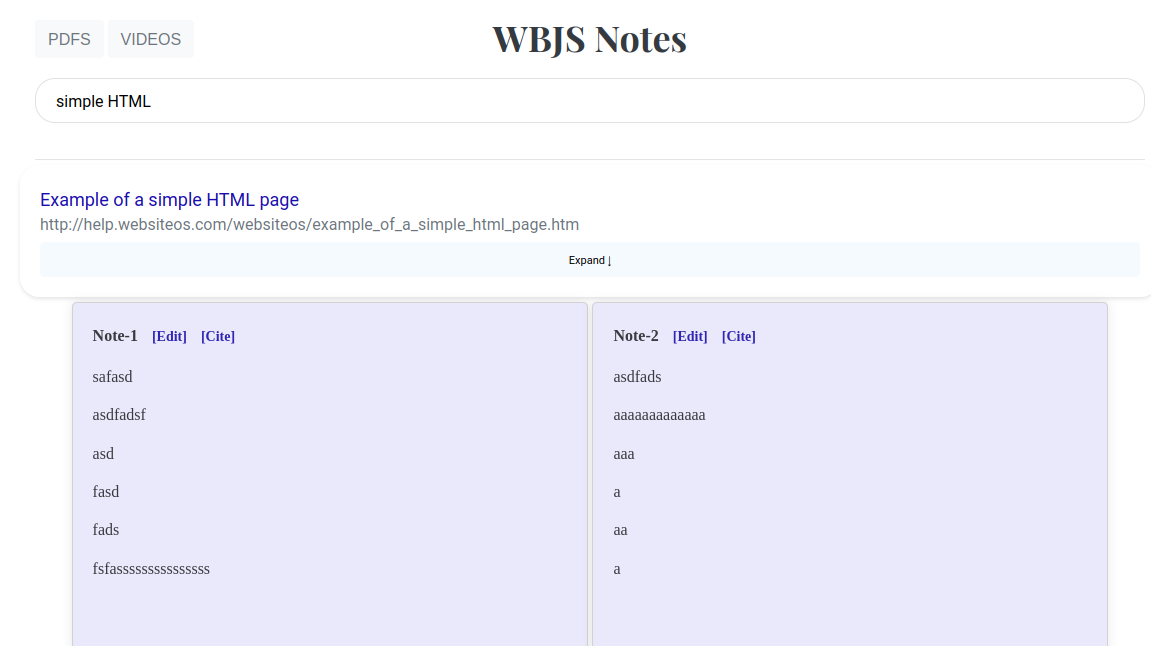
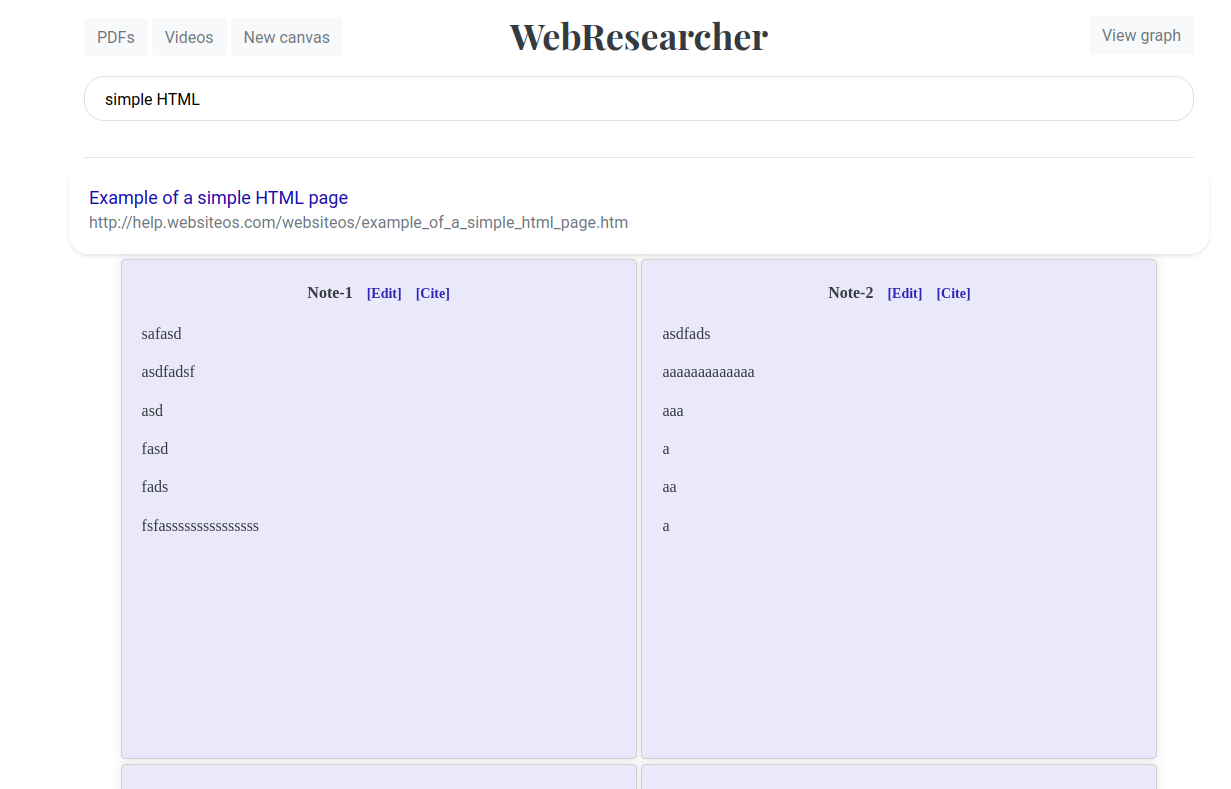
Fixing server port + updating graph
- Updated the routine used to search for ports in the background script.
- Fixed #124
- Graphs are now made connecting the notes with their associated tags.
- Updated readme demos

diff --git a/wbjs-server/server.js b/wbjs-server/server.js
@@ -144,66 +144,7 @@ function processDB(key=""){
 
 
               });
-            });
-
-
-            var doc = new JSDOM(notesText);
-            var links = doc.window.document.querySelectorAll('a');
-            // Extract the href attribute from each link
-            links = Array.from(links).map(link => link.href);
-            // Create a visjs dataset of links 
-
-            var nodes = [];
-            var edges = [];
-            nodes.push({
-              id: uid,
-              label: key,
-              group: "key"
-            });
-            visjsNodes[uid] = []
-            visjsEdges[uid] = [];
-
-            visjsNodes[uid].push({
-              id: uid,
-              label: key,
-              group: "key"
-            })
-            for (let link=0; link < links.length; link++) {
-              let linkUrl = links[link];
-              if(linkUrl.length > 0){
-                // Create a node for the link
-                nodes.push({
-                  id: crypto.createHash('md5').update(linkUrl).digest('hex'),
-                  label: linkUrl,
-                  group: "link"
-                });
-                // Check if the node already exists in visjsNodes
-                visjsNodes[uid].push({
-                  id: crypto.createHash('md5').update(linkUrl).digest('hex'),
-                  label: linkUrl,
-                  group: "link"
-                })
-                // Create an edge from the current key to the link
-                edges.push({
-                  from: uid,
-                  to: crypto.createHash('md5').update(linkUrl).digest('hex')
-                });
-                visjsEdges[uid].push({
-                  from: uid,
-                  to: crypto.createHash('md5').update(linkUrl).digest('hex')
-                });
-
-
-              }
-            };
-            let visjsData = JSON.stringify({
-              'uid': uid,
-              'nodes': nodes, 
-              'edges': edges,
-              'links': links
-            });
-            
-
+            });           
 
             // If key contains video, canvas or pdf , then we will use the notesText as the title 
             if(key.includes("127.0.0.1:3000/video.html?") || key.includes("127.0.0.1:3000/notes/") || key.includes("127.0.0.1:3000/pdf.html?")){
@@ -221,6 +162,65 @@ function processDB(key=""){
             let user = "root";
             let css =  JSON.stringify(val['CSS']) || ""; 
             let meta = JSON.stringify(val['META']) || "";
+
+            // Make Graph
+            var doc = new JSDOM(notesText);
+            var links = doc.window.document.querySelectorAll('a');
+            // Extract the href attribute from each link
+            links = Array.from(links).map(link => link.href);
+            // Create a visjs dataset of links 
+
+            visjsNodes[uid] = [];
+            visjsEdges[uid] = [];
+
+            // Add the current note
+            visjsNodes[uid].push({
+              id: uid,
+              label: title.slice(0,30) || key.slice(0,10),
+              group: "key"
+            })
+
+            // Add the tags of the current note and link to the current note
+            var tagSplit = tags.split(',');
+            for (let tagNode = 0 ; tagNode< tagSplit.length; tagNode++){
+              if(tagSplit[tagNode] !== ""){
+                visjsNodes[uid].push({
+                  id: crypto.createHash('md5').update(tagSplit[tagNode]).digest('hex'),
+                  label: tagSplit[tagNode],
+                  group: "tag"
+                })
+                visjsEdges[uid].push({
+                    from: uid,
+                    to: crypto.createHash('md5').update(tagSplit[tagNode]).digest('hex')
+                });
+              }
+            }
+            // Add the notes that are linked to the current note
+            for (let link=0; link < links.length; link++) {
+              let linkUrl = links[link];
+              if(linkUrl.length > 0 && linkUrl.includes(HOSTSERVER)){
+
+                visjsNodes[uid].push({
+                  id: crypto.createHash('md5').update(linkUrl).digest('hex'),
+                  label: linkUrl.slice(0,10),
+                  shape: "diamond",
+                  group: "link"
+                })
+                // Create an edge from the current key to the link
+                visjsEdges[uid].push({
+                  from: uid,
+                  to: crypto.createHash('md5').update(linkUrl).digest('hex')
+                });
+              }
+            };
+            let visjsData = JSON.stringify({
+              'uid': uid,
+              'nodes': visjsNodes[uid], 
+              'edges': visjsEdges[uid],
+              'links': links
+            });
+
+
             let sqlTags = `REPLACE INTO MyTable (key, uid, title, tags, notes, notesText, summary, user, css, meta, value) VALUES (?,?,?,?,?,?,?,?,?,?,?)`;
             dbClean.run(sqlTags, [key, visjsData, title, tags, notes, notesText, summary, user, css, meta, value], function(err) {
               if (err) {
@@ -301,18 +301,22 @@ function processDB(key=""){
 
             var nodes = [];
             var edges = [];
+            var linkUrlDisplay = `<a href="${key}" target="_blank">${val['TITLE']}</a>`;
             nodes.push({
               id: uid,
-              label: val['TITLE'] || key,
+              label: linkUrlDisplay,
               group: "key"
             })
             for (let link=0; link < links.length; link++) {
               let linkUrl = links[link];
               if(linkUrl.length > 0){
+                var linkUrlDisplay = `<a href="${linkUrl}" target="_blank">${linkUrl.slice(0,10)}</a>`;
+  
                 // Create a node for the link
                 nodes.push({
                   id: crypto.createHash('md5').update(linkUrl).digest('hex'),
-                  label: linkUrl,
+                  label: linkUrlDisplay,
+                  shape: "diamond",
                   group: "link"
                 });
                 // Create an edge from the current key to the link
@@ -752,8 +756,28 @@ app.get('/notesViewer', (req, res) => {
 
           // create a network
           var container = document.getElementById("mynetwork");
-
-          var network = new vis.Network(container, { nodes: [], edges: [] }, {});
+          var options = {
+            interaction: {
+                navigationButtons: true,
+                keyboard: true,
+              },
+            edges: {
+              font: {
+                size: 12,
+              },
+              widthConstraint: {
+                maximum: 90,
+              },
+            },
+            nodes: {
+              shape: "box",
+              margin: 10,
+              widthConstraint: {
+                maximum: 200,
+              },
+            } 
+          };
+          var network = new vis.Network(container, { nodes: [], edges: [] }, options);
           // set the data
           for (let i=0; i<keys.length; i++){
             // First set the nodes
@@ -779,12 +803,6 @@ app.get('/notesViewer', (req, res) => {
               console.error("[GRAPH] Error setting data for key: " + keys[i]);
             }
           }
-          // var data = {
-          //   nodes: nodes,
-          //   edges: edges,
-          // };
-          // var options = {};
-          // var network = new vis.Network(container, data, options);
         </script>
       </body>
     </html>`;

diff --git a/webresearcher/background.js b/webresearcher/background.js
@@ -100,32 +100,46 @@ var postServer  = "";
 var tagsServer  = "";
 var readabilityServer  = "";
 
-async function getPortNumber() {
-  for(let port= 3000; port<3050; port++){
-    try {
-      const response = await fetch(`http://127.0.0.1:${port}/pingWBJS`);
-      if (response.ok) {
-        console.log(`Server is running on port ${port}`);
-        return port; // Return the first available port
+
+async function assignPort(){
+  async function getPortNumber() {
+    console.log("calling getportnumber")
+    for(let port= 3000; port<3010; port++){
+      try {
+        const response = await fetch(`http://127.0.0.1:${port}/pingWBJS`);
+        if (response.ok) {
+          console.log(`Server is running on port ${port}`);
+          return port; // Return the first available port
+        }
+      } catch (error) {
+        // console.error(`Error connecting to port ${port}: ${error}`);
       }
-    } catch (error) {
-      console.error(`Error connecting to port ${port}: ${error}`);
     }
   }
+  getPortNumber().then((port) => {
+    if (port === undefined) {
+      console.error("No available port found in the range 3000-3010.");
+      console.error("Trying again 30 seconds later...");
+      setTimeout(assignPort, 30000);
+    }
+
+    else{
+      portNumber = port;
+      serverHost  = "http://127.0.0.1:" + portNumber;
+      authServer = serverHost + "/authWBJS";
+      fetchServer = serverHost + "/getData";
+      searchServer = serverHost + "/search";
+      postServer  = serverHost + `/data`;
+      tagsServer  = serverHost + `/getAllTags`;
+      readabilityServer  = serverHost + `/readability`;
+
+      console.log("Server Host: " + serverHost);
+      setTimeout(assignPort, 30000); // Come back after 300 seconds to check if server is still running and is on the same port
+
+    }
+  });
 }
-getPortNumber().then((port) => {
-  portNumber = port;
-  serverHost  = "http://127.0.0.1:" + portNumber;
-  authServer = serverHost + "/authWBJS";
-  fetchServer = serverHost + "/getData";
-  searchServer = serverHost + "/search";
-  postServer  = serverHost + `/data`;
-  tagsServer  = serverHost + `/getAllTags`;
-  readabilityServer  = serverHost + `/readability`;
-
-  console.log("Server Host: " + serverHost);
-});
-
+assignPort();
 
 function handleMessage(request, sender, sendResponse) {
 

diff --git a/README.md b/README.md
@@ -42,6 +42,7 @@ Multiple sqlite DBs will be created in the same folder which will contain all th
 3. **Add tags:** Add relevant tags to your note for easy organization.   
 <img height="200px" src="demo/demo2.gif">
 
+
 4. **Saving notes**: Save notes to server by pressing the save button (or Alt+S/Cmd+S). The notes will be automatically displayed the next time you visit the page.
 
 5. **Link notes**: Link to existing notes.
@@ -49,10 +50,14 @@ Multiple sqlite DBs will be created in the same folder which will contain all th
 <img width="70%" src="demo/link.gif">
 
 
-5. **View all notes** : Visit http://127.0.0.1:3000/notesViewer to view and search all the notes taken.
+5. **View all notes** : Visit [http://127.0.0.1:3000/notesViewer](http://127.0.0.1:3000/notesViewer) to view and search all the notes taken.
 
 
 <img width="100%" src="demo/homepage_WBJS.png">
+
+You can also view a graph network of your notes by clicking on the 'View graph' button 
+
+<img width="40%" src="demo/graph.png">
 
 
 The query string `q` can also be used to search the notes. 
